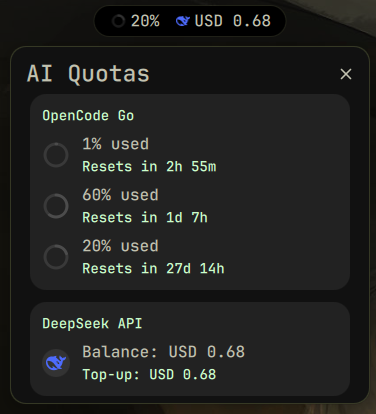
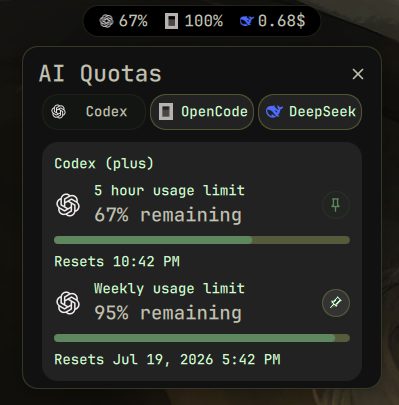
docs: refresh plugin screenshot and usage guidance

diff --git a/README.md b/README.md
@@ -12,7 +12,7 @@ Codex and OpenCode Go usage limits plus DeepSeek API balance in your [DankMateri
 |----------|------|------------|
 | **Codex** | ChatGPT plan usage limits | 5-hour, weekly, and code review usage % with reset countdowns |
 | **OpenCode Go** | Usage quotas | Rolling (5h), Weekly, Monthly usage % with reset countdowns |
-| **DeepSeek API** | Account balance | Total, granted, and topped-up balance |
+| **DeepSeek API** | Account balance | Available total, API availability, unexpired grants, and paid top-ups |
 
 The plugin is designed to be extensible - additional AI coding providers can be added in the future.
 
@@ -21,14 +21,14 @@ The plugin is designed to be extensible - additional AI coding providers can be 
 - Merged bar pill showing Codex and OpenCode usage rings plus DeepSeek API balance
 - Codex 5-hour usage ring in the bar pill, with 5-hour, weekly, and code review limits in the popout
 - Separators between provider sections in the pill
-- Click to open a popout with per-window OpenCode Go detail in styled cards
-- Choose which window to pin in the bar pill (Rolling / Weekly / Monthly)
+- Click to open a tabbed provider popout with clean per-limit detail cards
+- Pin any Codex, OpenCode, or DeepSeek limit directly from its popout card
 - Display mode toggle: show remaining % or used % (synced between pill and popout)
-- Live reset countdowns for each OpenCode Go window (days/hours/minutes)
-- DeepSeek API balance card with total/granted/topped-up breakdown and logo
+- Reset date/time shown for each usage limit
+- DeepSeek API balance card with availability status, total, unexpired grants, paid top-ups, and logo
 - Configurable refresh interval (30s - 300s)
 - Toggle each provider on/off independently
-- Toggle which OpenCode windows appear in the popout
+- OpenCode Rolling (5h), Weekly, and Monthly windows are always available in the popout
 - All credentials configured from DMS settings - no config files needed
 
 ## Requirements
@@ -61,14 +61,12 @@ Then in DMS:
 |---------|---------|-------------|
 | Codex | on | Show Codex usage limits from the local Codex login |
 | OpenCode | on | Show OpenCode usage quotas |
-| Bar Pill Window | Rolling | Which OpenCode window to show in the pill |
-| Show Rolling (5h) | on | Show rolling window in the popout |
-| Show Weekly | on | Show weekly window in the popout |
-| Show Monthly | on | Show monthly window in the popout |
 | DeepSeek | on | Show DeepSeek account balance |
 | Refresh Interval | 60s | How often to fetch data (30-300s) |
-| Show Reset Countdown | on | Live countdown in the popout |
+| Show Reset Times | on | Show reset date and time in the popout |
 | Display Mode | Remaining (%) | Show remaining or used percentage (pill + popout) |
+
+Use the pin button beside any limit in the popout to choose which limits appear in the bar pill. Multiple limits can be pinned at once.
 
 ### Credentials
 
@@ -91,7 +89,7 @@ Codex uses the local Codex CLI login automatically. Run `codex login` once; no t
 
 ## How it works
 
-The plugin reads the local Codex OAuth token from `CODEX_HOME/auth.json` (default `~/.codex/auth.json`), queries the Codex usage endpoint, scrapes the OpenCode workspace dashboard directly via `curl`, and queries the DeepSeek balance API. No external npm packages required.
+The plugin reads the local Codex OAuth token from `CODEX_HOME/auth.json` (default `~/.codex/auth.json`), queries the Codex usage endpoint, scrapes the OpenCode workspace dashboard directly via `curl`, and queries the DeepSeek balance API. DeepSeek’s balance endpoint provides account funds and availability, not usage history; detailed usage remains available through the DeepSeek Platform Usage export. No external npm packages required.
 
 ```
 Codex auth.json  ---> chatgpt.com/backend-api/wham/usage --\